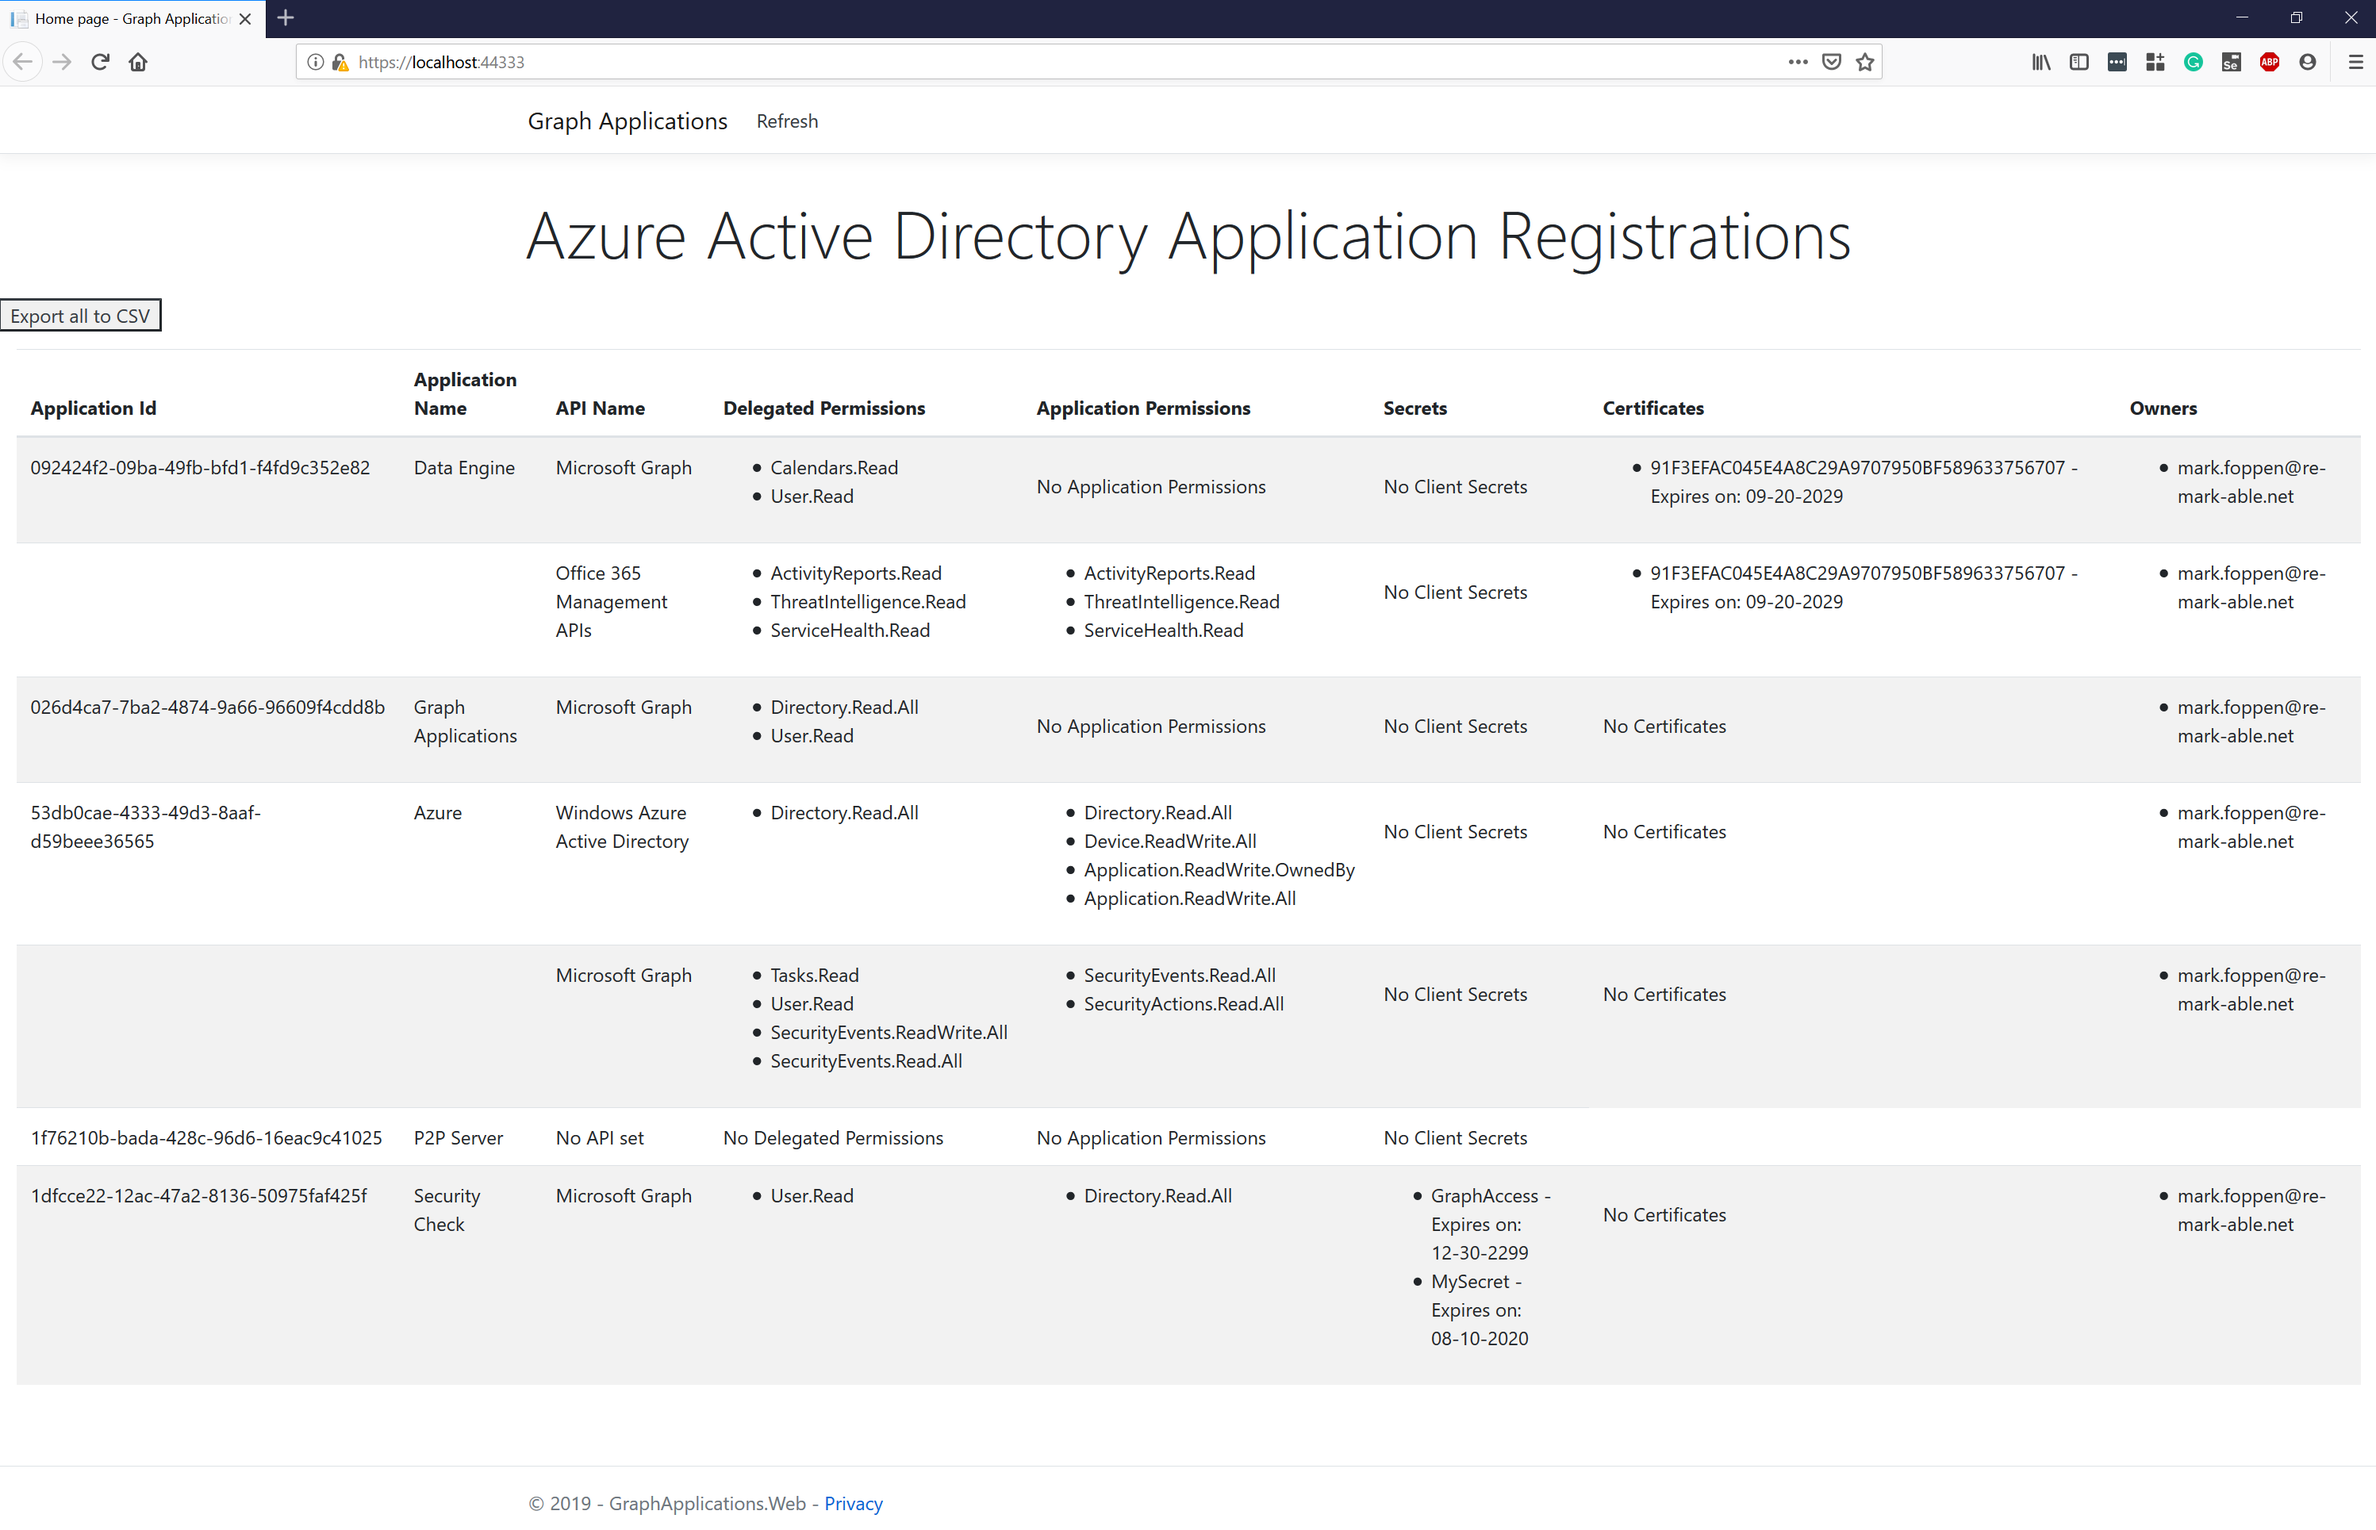
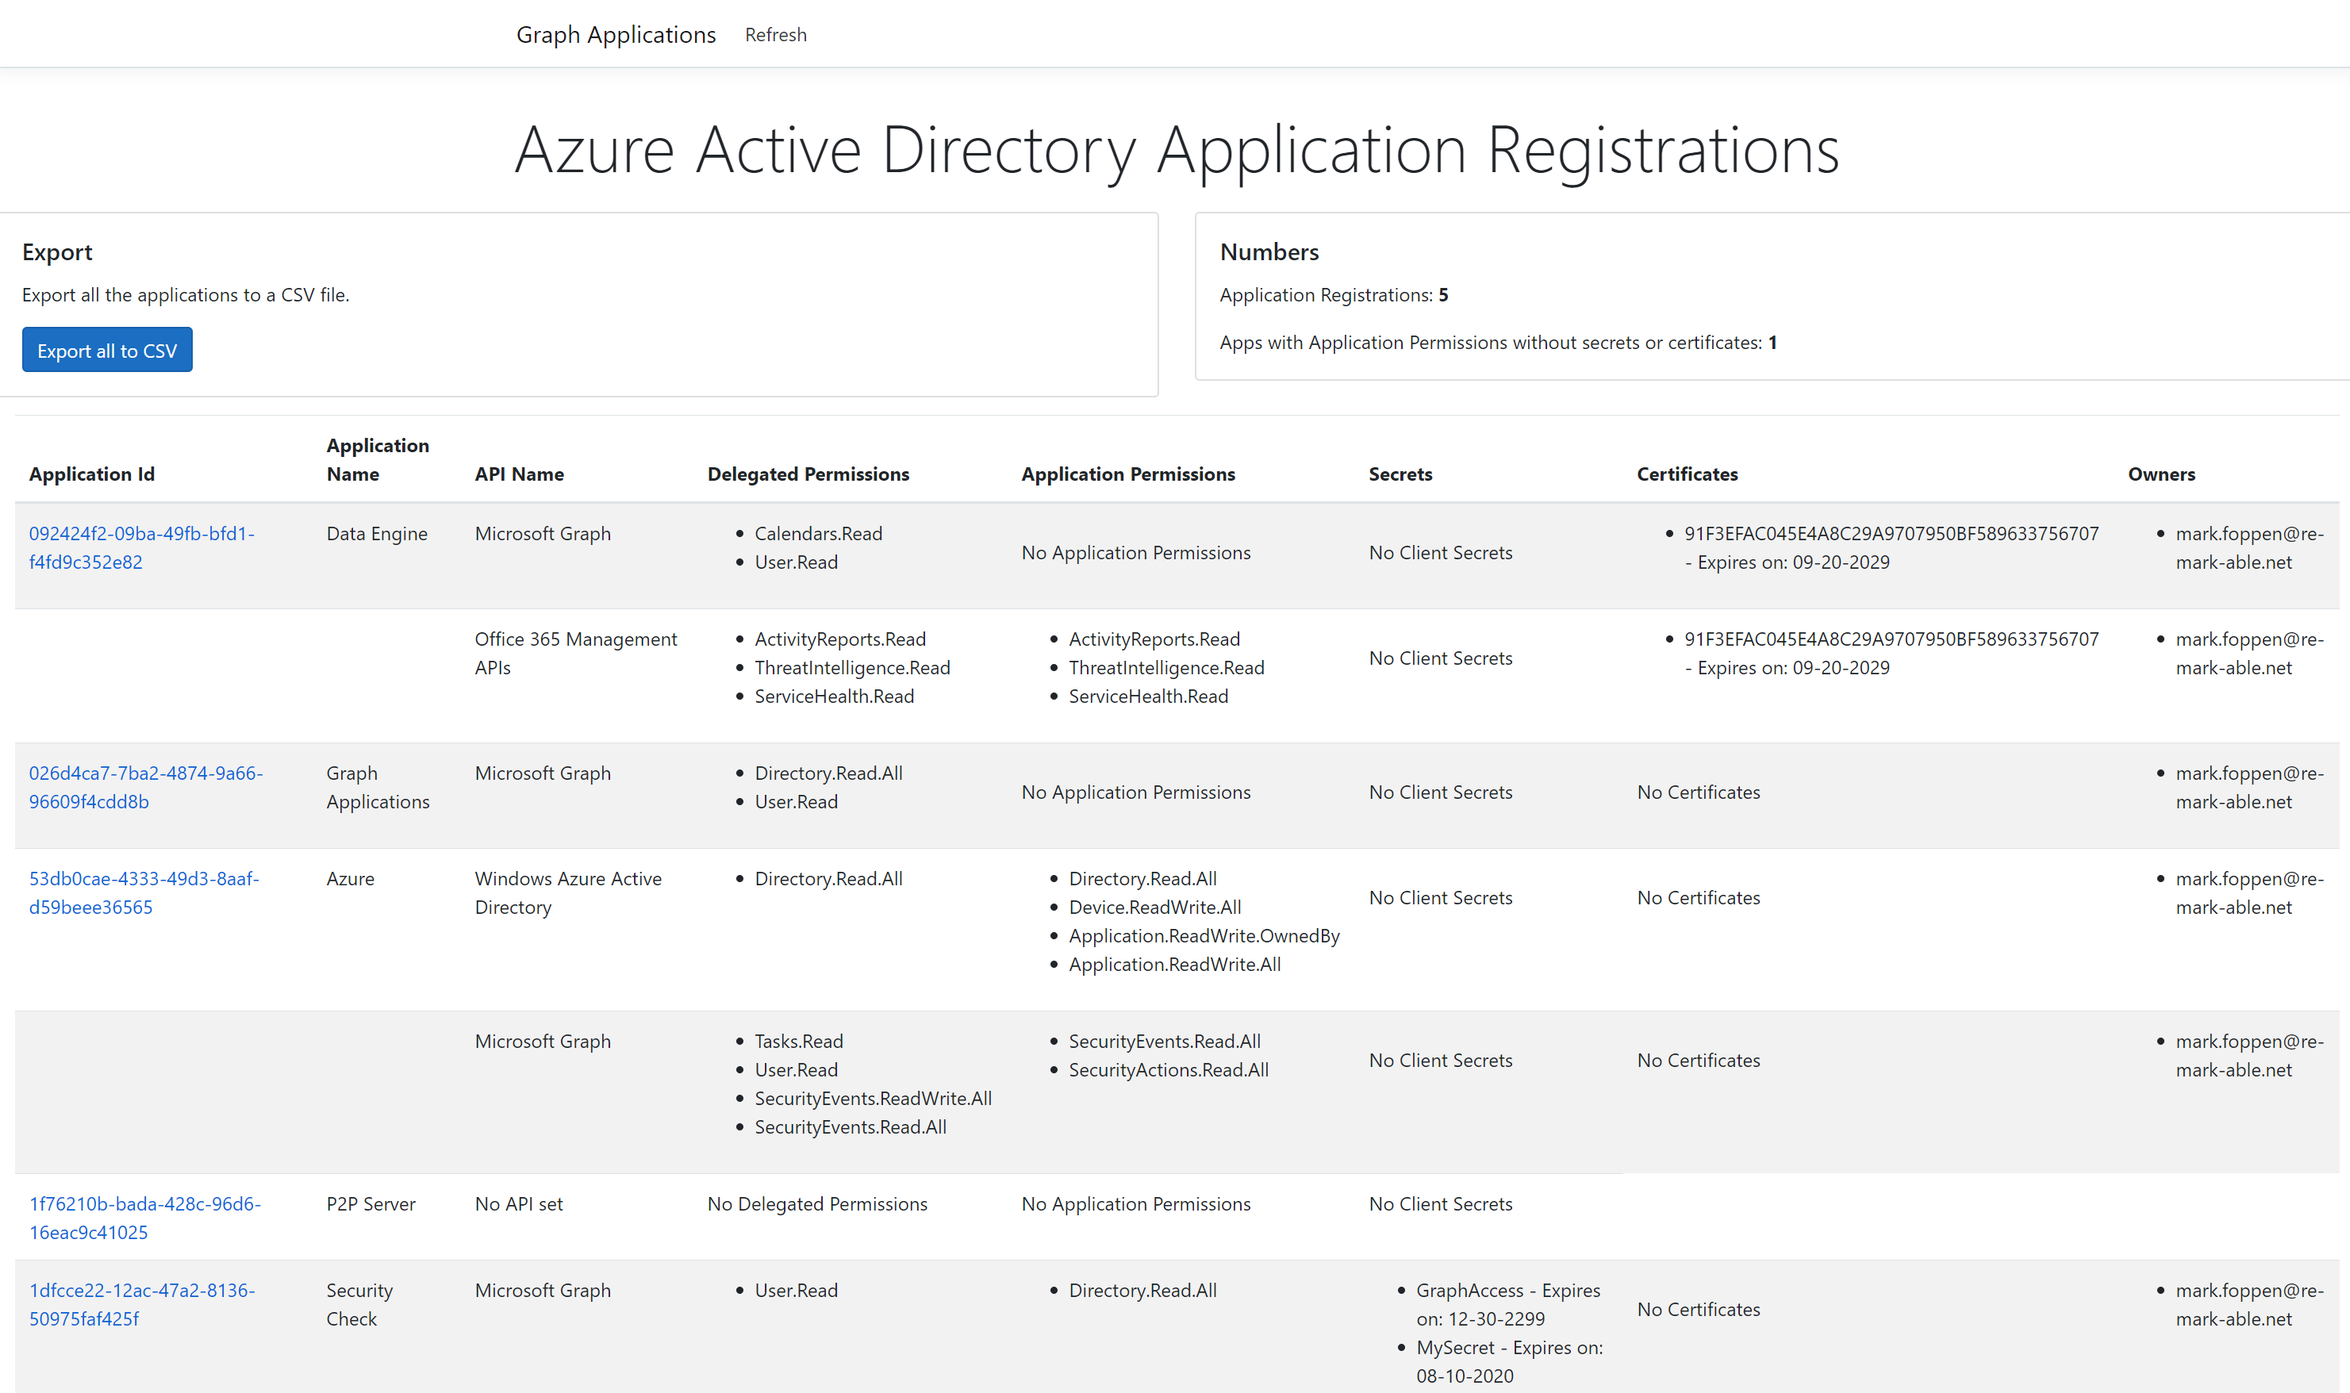
Updated styling and added some extra stats about the applications

diff --git a/GraphApplications.Web/Pages/Index.cshtml.cs b/GraphApplications.Web/Pages/Index.cshtml.cs
@@ -1,9 +1,9 @@
 using GraphApplications.Core.Entities.GraphServiceBetaClient;
 using GraphApplications.Core.Interfaces;
-using Microsoft.AspNetCore.Mvc;
 using Microsoft.AspNetCore.Mvc.RazorPages;
 using Microsoft.Extensions.Logging;
 using System.Collections.Generic;
+using System.Linq;
 using System.Threading.Tasks;
 
 namespace GraphApplications.Web.Pages
@@ -13,6 +13,8 @@ namespace GraphApplications.Web.Pages
         private readonly ILogger<IndexModel> _logger;
         private readonly IGraphServiceBetaClient _graphServiceBetaClient;
         public List<ApplicationRegistration> Applications;
+        public int NumberOfApplications;
+        public int AppsWithoutSecretsOrCertificates;
 
         public IndexModel(ILogger<IndexModel> logger, IGraphServiceBetaClient graphServiceBetaClient)
         {
@@ -23,6 +25,12 @@ namespace GraphApplications.Web.Pages
         public async Task OnGet()
         {
             Applications = await _graphServiceBetaClient.GetApplications();
+            NumberOfApplications = Applications.Count();
+            AppsWithoutSecretsOrCertificates = Applications.Where(a =>
+                !a.Certificates.Any()
+                && !a.Secrets.Any()
+                && a.Services.Any(s =>
+                    s.ApplicationPermissions.Any())).Count();
         }
     }
 }
